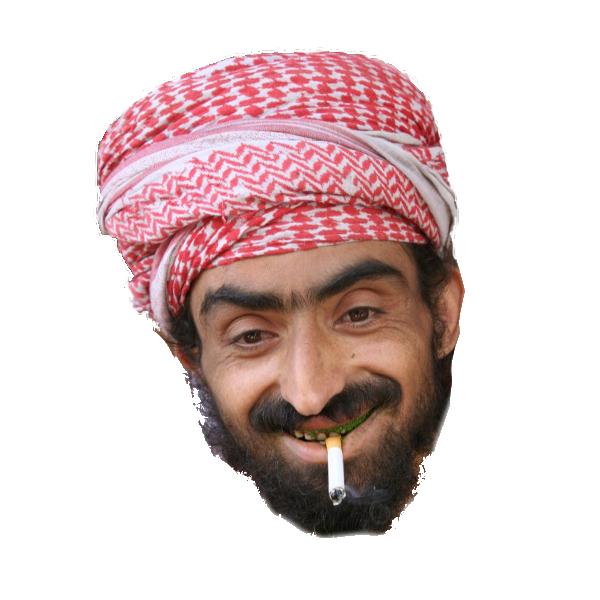
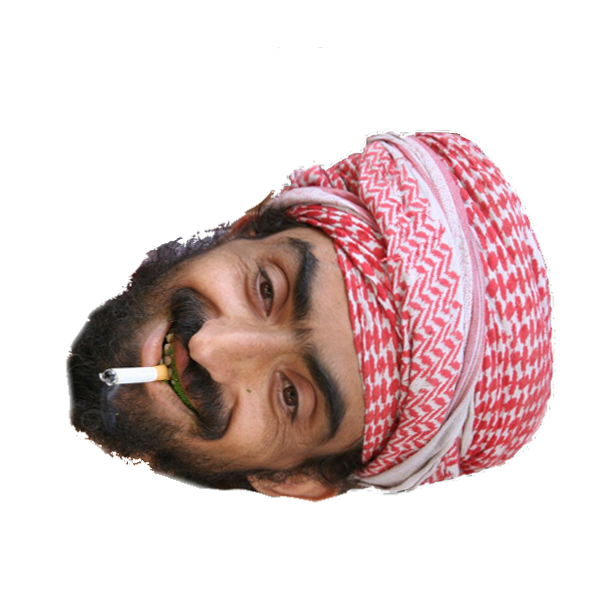
c'est beau sa mere

diff --git a/Test.java b/Test.java
@@ -12,43 +12,44 @@ public class Test {
 		Fenetre f = new Fenetre();
 		Graphique G = new Graphique(jeu, pion);
 		f.add(G);
-		while(true){
-			for(int i = 0; i < 7; i++){
-				for (int j = 0; j < 7; j++){
-
-					if(pion.getXPion()-1 == j && pion.getYPion()-1 == i){
-						System.out.print("A ");
-					} else {
-						System.out.print(jeu.cases[i][j].getCouleurTapis()+" ");
-					}
-
-
-				}
-				System.out.print("\n");
-			}
-
-			G.repaint();
-			while(true){
-				Scanner sc = new Scanner(System.in);
-				String tmp = sc.nextLine();
-				if(tmp.equals("g")){
-					pion.changePosXPion(false);
-					break;
-				} else if(tmp.equals("d")){
-					pion.changePosXPion(true);
-					break;
-				} else if(tmp.equals("h")){
-					pion.changePosYPion(false);
-					break;
-				} else if(tmp.equals("b")){
-					pion.changePosYPion(true);
-					break;
-
-				} else {
-					System.out.println("Tapez g, d, h, b");
-				}
-			}
-		}
+		f.addKeyListener(new Clavier(pion,G));
+		// while(true){
+		// 	for(int i = 0; i < 7; i++){
+		// 		for (int j = 0; j < 7; j++){
+		//
+		// 			if(pion.getXPion()-1 == j && pion.getYPion()-1 == i){
+		// 				System.out.print("A ");
+		// 			} else {
+		// 				System.out.print(jeu.cases[i][j].getCouleurTapis()+" ");
+		// 			}
+		//
+		//
+		// 		}
+		// 		System.out.print("\n");
+		// 	}
+		//
+		// 	G.repaint();
+		// 	while(true){
+		// 		Scanner sc = new Scanner(System.in);
+		// 		String tmp = sc.nextLine();
+		// 		if(tmp.equals("g")){
+		// 			pion.changePosXPion(false);
+		// 			break;
+		// 		} else if(tmp.equals("d")){
+		// 			pion.changePosXPion(true);
+		// 			break;
+		// 		} else if(tmp.equals("h")){
+		// 			pion.changePosYPion(false);
+		// 			break;
+		// 		} else if(tmp.equals("b")){
+		// 			pion.changePosYPion(true);
+		// 			break;
+		//
+		// 		} else {
+		// 			System.out.println("Tapez g, d, h, b");
+		// 		}
+		// 	}
+		// }
 
 	}
 }

diff --git a/Assam.java b/Assam.java
@@ -11,7 +11,6 @@ public class Assam{
 	*	2 = droite
 	*	3 = haut
 	*	4 = bas
-	*	0 = aucune
 	*/
 	private static int direction;
 
@@ -26,7 +25,7 @@ public class Assam{
 	public Assam(){
 		posXPion = 4;
 		posYPion = 4;
-		direction = 0;
+		direction = 4;
 	}
 
 
@@ -38,8 +37,10 @@ public class Assam{
 	public static void changePosXPion(boolean b){
 		if(b){
 			posXPion++;
+			direction=2;
 		} else {
 			posXPion--;
+			direction=1;
 		}
 
 		if(posXPion > 7 || posXPion < 1){
@@ -56,8 +57,10 @@ public class Assam{
 	public static void changePosYPion(boolean b){
 		if(b){
 			posYPion++;
+			direction=4;
 		} else {
 			posYPion--;
+			direction=3;
 		}
 
 		if(posYPion > 7 || posYPion < 1){
@@ -78,8 +81,10 @@ public class Assam{
 					posXPion--;
 					//
 				}
-			} else {
-				//
+				direction=4;
+			}
+			else {
+				direction=1;
 			}
 			posYPion++;
 		}
@@ -92,10 +97,44 @@ public class Assam{
 					posXPion--;
 					//
 				}
-			} else {
-				//
+				direction=3;
+			}
+			else {
+				direction=2;
 			}
 			posYPion--;
+		}
+		else if(posXPion == 0){
+			if(posYPion < 7){
+				if(posYPion%2 == 1){
+					posYPion++;
+					//
+				} else {
+					posYPion--;
+					//
+				}
+				direction=2;
+			}
+			else {
+				direction=3;
+			}
+			posXPion++;
+		}
+		else if(posXPion == 8){
+			if(posYPion > 1){
+				if(posYPion%2 == 0){
+					posYPion++;
+					//
+				} else{
+					posYPion--;
+					//
+				}
+				direction=1;
+			}
+			else {
+				direction=4;
+			}
+			posXPion--;
 		}
 	}
 
@@ -113,5 +152,13 @@ public class Assam{
 	*/
 	public int getYPion(){
 		return posYPion;
+	}
+
+	/**
+	* Methode pour obtener Direction
+	*@return direction
+	*/
+	public int getDirection(){
+		return this.direction;
 	}
 }

diff --git a/Clavier.java b/Clavier.java
@@ -1,0 +1,43 @@
+import java.awt.*;
+import java.awt.event.*;
+
+public class Clavier implements KeyListener{
+  Assam pion;
+  Graphique g;
+
+  public Clavier(Assam p, Graphique g){
+    this.pion = p;
+    this.g = g;
+  }
+
+  @Override
+  public void keyPressed(KeyEvent e){
+    if(e.getKeyCode() == KeyEvent.VK_LEFT){
+      //fleche gauche
+      pion.changePosXPion(false);
+      g.repaint();
+    }
+    else if(e.getKeyCode() == KeyEvent.VK_UP){
+      //fleche haut
+      pion.changePosYPion(false);
+      g.repaint();
+    }
+    else if(e.getKeyCode() == KeyEvent.VK_RIGHT){
+      //fleche droite
+      pion.changePosXPion(true);
+      g.repaint();
+    }
+    else if(e.getKeyCode() == KeyEvent.VK_DOWN){
+      //fleche bas
+      pion.changePosYPion(true);
+      g.repaint();
+    }
+
+  }
+  @Override
+  public void keyReleased(KeyEvent e){
+  }
+  @Override
+  public void keyTyped(KeyEvent e){
+  }
+}

diff --git a/Graphique.java b/Graphique.java
@@ -6,7 +6,7 @@ import java.awt.event.*;
 import java.net.URL;
 import java.lang.*;
 
-public class Graphique extends JComponent {
+public class Graphique extends JComponent{
 
   private StockageJeu stock;
   private Assam assam;
@@ -28,9 +28,8 @@ public class Graphique extends JComponent {
       g.drawLine(i*(this.getWidth()/9), 0, i*(this.getWidth()/9), this.getHeight());
     }
 
-    url = this.getClass().getResource("arabe1.png");
+    url = this.getClass().getResource("arabe"+assam.getDirection()+".png");
     Image arabe = new ImageIcon(url).getImage();
     g.drawImage(arabe,assam.getXPion()*(this.getWidth()/9), assam.getYPion()*(this.getHeight()/9), this.getWidth()/9,this.getHeight()/9, null, this);
-
   }
 }
